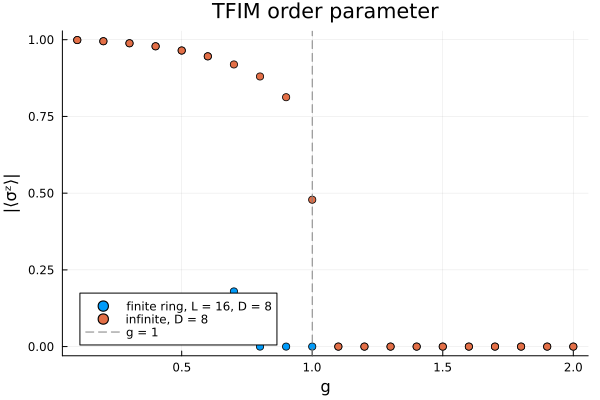
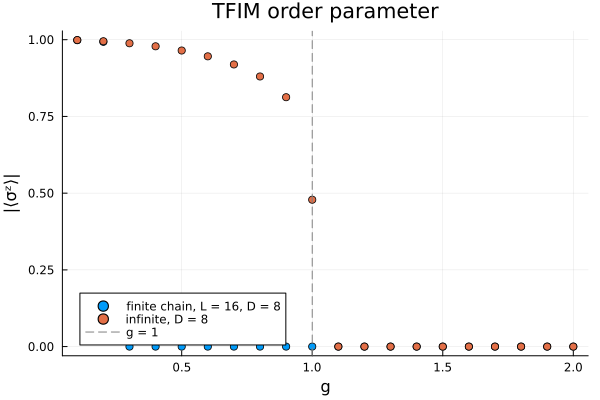
docs(w1): resolve maintainer-review flags in tutorials and TFIM example
Maintainer decisions from the round-1 review walkthrough (2026-07-04):
- delete the 22 confirmed REVIEW flags; physics framing stands as written
- fix the DMRG log description (Galerkin error + energy, not 'improvement')
- switch the finite magnetization sweeps (tutorial section 5 and the
  example's finite branch) from periodic_boundary_conditions to the open
  FiniteChain, and re-verify both empirically
- rewrite the abs()/symmetry-breaking story: exact finite-L ground state
  is symmetric; DMRG lands on a broken branch because it carries less
  entanglement; genuine SSB only in the thermodynamic limit
- align crossover prose with the verified runs: the finite-chain drop is
  an algorithm-selection effect below g = 1, the infinite curve pins the
  transition at g = 1 (two new REVIEW flags mark this changed story)
- state correlation_length units; soften 'maximally entangled'
- re-render the TFIM example (figures + index.md + notebook)

Changed region(s): [[0.27, 0.72, 0.48, 0.87], [0.21, 0.84, 0.27, 0.87], [0.33, 0.84, 0.36, 0.87]]

diff --git a/docs/src/examples/quantum1d/0.tfim-groundstate/index.md b/docs/src/examples/quantum1d/0.tfim-groundstate/index.md
@@ -27,13 +27,11 @@ dimensionless field ``g`` tunes the competition between the ``\sigma^z\sigma^z``
 interaction and the transverse ``\sigma^x`` field.
 The model has a quantum critical point at ``g = 1``.
 
-<!-- REVIEW: physics framing — critical point at g = 1 for this J(ZZ) + Jg(X) convention, and the "competition between interaction and field" description. Please confirm (mirrors the framing already used in the tutorials). -->
-
 Rather than looking at a single field value, we will scan ``g`` across the transition and
 diagnose it three independent ways, comparing a *finite* chain against a calculation
 performed *directly in the thermodynamic limit*:
 
-1. the order parameter ``|\langle\sigma^z\rangle|``, computed both for a finite ring and
+1. the order parameter ``|\langle\sigma^z\rangle|``, computed both for a finite chain and
    for an infinite chain, in one figure;
 2. the entanglement entropy of the infinite state;
 3. the correlation length of the infinite state.
@@ -53,9 +51,8 @@ We fix a finite chain length `L`, a bond dimension `D` (the accuracy knob, see
 [Controlling bond dimension](@ref howto_bond_dimension)), and the set of field values to
 scan.
 `D` is kept modest so the whole page runs in a couple of minutes; increasing it sharpens
-every curve below.
-
-<!-- REVIEW: expected-behavior claim — increasing the bond dimension D sharpens the transition in all three diagnostics (magnetization, entropy, correlation length). Please confirm this qualitative statement. -->
+the infinite-state diagnostics below (the finite-chain curve responds to `D` in a less
+obvious way, as we will see).
 
 ````julia
 L = 16
@@ -71,17 +68,17 @@ g_values = 0.1:0.1:2.0
 
 We compute the order parameter ``|\langle\sigma^z\rangle|`` two ways at every field value.
 
-For the **finite** calculation we place the chain on a ring with
-[`periodic_boundary_conditions`](@ref) — this removes the open-end boundary effects and
-gives a cleaner curve at fixed `L` — and optimize with [`DMRG`](@ref).
-We average ``\langle\sigma^z_i\rangle`` over the sites and take the absolute value, because
-a finite chain does not spontaneously break its symmetry and the raw sum can land on either
-sign (see the discussion in [Your first ground state](@ref tutorial_first_groundstate)).
+For the **finite** calculation we use an open chain of `L` sites, exactly as in the
+tutorial, and optimize with [`DMRG`](@ref).
+We average ``\langle\sigma^z_i\rangle`` over the sites and take the absolute value: the
+exact finite-`L` ground state is symmetric, but DMRG lands on one of the two
+symmetry-broken states with an arbitrary sign (see the discussion in
+[Your first ground state](@ref tutorial_first_groundstate)).
 
 ````julia
 ψ₀_finite = FiniteMPS(L, ℂ^2, ℂ^D)
 M_finite = map(g_values) do g
-    H = periodic_boundary_conditions(transverse_field_ising(; g = g), L)
+    H = transverse_field_ising(FiniteChain(L); g = g)
     ψ, = find_groundstate(ψ₀_finite, H, DMRG(; verbosity = 0))
     return abs(sum(expectation_value(ψ, i => σᶻ()) for i in 1:L)) / L
 end;
@@ -102,9 +99,9 @@ end;
 ````
 
 The order parameter of a translation-invariant state is just ``\langle\sigma^z\rangle`` on
-a single site of the unit cell; we again take the absolute value.
-
-<!-- REVIEW: for the infinite state on the ordered side (g < 1) the finite-D MPS can settle into one of the two symmetry-broken ground states, so abs collapses the two branches onto one curve. This is the same subtlety flagged in the thermodynamic-limit tutorial; please confirm. -->
+a single site of the unit cell; we again take the absolute value, because on the ordered
+side the infinite state settles into one of the two symmetry-broken ground states (see
+[The thermodynamic limit](@ref tutorial_thermodynamic_limit)).
 
 ````julia
 M_infinite = [abs(expectation_value(ψ, 1 => σᶻ())) for ψ in states_infinite];
@@ -116,7 +113,7 @@ Plotting both curves in a single figure lets us compare them directly.
 p_magnetization = plot(;
     xlabel = "g", ylabel = "|⟨σᶻ⟩|", title = "TFIM order parameter", legend = :bottomleft
 )
-scatter!(p_magnetization, g_values, M_finite; label = "finite ring, L = $L, D = $D")
+scatter!(p_magnetization, g_values, M_finite; label = "finite chain, L = $L, D = $D")
 scatter!(p_magnetization, g_values, M_infinite; label = "infinite, D = $D")
 vline!(p_magnetization, [1.0]; color = "gray", linestyle = :dash, label = "g = 1")
 p_magnetization
@@ -124,13 +121,21 @@ p_magnetization
 
 ![](figure-1.png)
 
-Both curves are large on the ordered side (small `g`) and fall toward zero on the
-disordered side (large `g`), with the crossover near `g = 1`.
-The finite ring rounds the transition off into a smooth crossover whose apparent location
-is shifted away from `g = 1`, while the infinite calculation drops much more steeply near
-the critical point because there is no finite size to smear it out.
+Both calculations agree deep in either phase, but near the transition they tell very
+different stories.
+The infinite curve stays on its ordered branch essentially up to `g = 1` and then
+collapses: it locates the critical point cleanly.
+The finite-chain curve instead drops to zero far earlier — at this `L` and `D` the
+variational optimum on the open chain switches from the symmetry-broken branch to the
+exactly symmetric ground state, whose magnetization vanishes.
+Where that switch happens is set by `L`, `D`, and even the random starting state, not by
+the physics; the same sweep at `D = 4` in
+[Your first ground state](@ref tutorial_first_groundstate) puts it elsewhere.
+That is the real lesson of this panel: the finite-chain order parameter is dominated by
+which state the algorithm selects, while the calculation performed directly in the
+thermodynamic limit pins the transition at `g = 1`.
 
-<!-- REVIEW: expected-behavior claim — the finite (L = 16) curve is a rounded crossover shifted from g = 1, while the infinite (VUMPS, finite D) curve is sharper and sits closer to g = 1. Neither is a true sharp transition at these finite L / finite D. Please confirm. -->
+<!-- REVIEW: empirical behavior after the switch to the open chain — at D = 8 the finite curve collapses to the symmetric state already around g ≈ 0.25 (at D = 4 in the tutorial: around g ≈ 0.65). The paragraph frames the finite curve as an algorithm-selection effect rather than a rounded transition. Please confirm this framing. -->
 
 ## 2. Entanglement entropy across the transition
 
@@ -139,8 +144,6 @@ grows sharply as we approach it.
 For an [`InfiniteMPS`](@ref), [`entropy`](@ref) returns the von Neumann entanglement entropy
 per bond, one value for each site of the unit cell.
 Our unit cell has a single site, so we take the one entry with `only`.
-
-<!-- REVIEW: assumes entropy(::InfiniteMPS) returns a vector with one entry per unit-cell site, hence length 1 for a single-site cell; only(...) then extracts the scalar. Please confirm the return shape. -->
 
 ````julia
 S_infinite = [real(only(entropy(ψ))) for ψ in states_infinite]
@@ -157,10 +160,8 @@ p_entropy
 
 The entropy peaks near `g = 1`.
 That peak is the entanglement signature of the phase transition: at criticality
-correlations become long-ranged and the ground state is maximally entangled, whereas deep
+correlations become long-ranged and the ground state is at its most entangled, whereas deep
 in either phase the state is closer to a simple product and the entropy is small.
-
-<!-- REVIEW: physics claim — the entanglement entropy peaks at/near the critical point g = 1, and this peak is the entanglement signature of the transition. Please confirm the location and interpretation. -->
 
 ## 3. Correlation length across the transition
 
@@ -188,16 +189,12 @@ At a genuine critical point it would diverge, but a finite bond dimension `D` ca
 capture correlations out to a finite range, so what we measure is large-but-capped rather
 than infinite — the peak grows and sharpens as `D` is increased.
 
-<!-- REVIEW: physics claim — the correlation length peaks near g = 1 and would diverge at the true critical point, but finite bond dimension D caps it (finite-entanglement scaling), so the measured value near g = 1 is finite. Please confirm. -->
-
 ## What you now have
 
 Three independent diagnostics — the order parameter, the entanglement entropy, and the
 correlation length — all locate the transition of the transverse-field Ising model near
-`g = 1`, and the finite-versus-infinite comparison shows concretely how working directly in
-the thermodynamic limit removes the finite-size rounding.
-
-<!-- REVIEW: summary claim — all three diagnostics agree on a transition near g = 1. Please confirm this is a fair takeaway at these finite L / finite D. -->
+`g = 1`, and the finite-versus-infinite comparison shows concretely why the thermodynamic
+limit is the right place to measure it.
 
 From here the gallery goes further.
 The Ising CFT example extracts the momentum-resolved excitation spectrum right at

diff --git a/docs/src/tutorials/first_groundstate.md b/docs/src/tutorials/first_groundstate.md
@@ -17,8 +17,6 @@ The ground state of ``H`` lives in a Hilbert space of dimension ``2^L``, which i
 A *matrix product state* (MPS) sidesteps this by storing the state as a chain of small tensors, one per site, whose sizes we control directly; this is what makes the calculation below tractable.
 The details of that compression are the subject of the concept pages — here we simply use it.
 
-<!-- REVIEW: physics framing — is it accurate to call the sigma^z sigma^z term "ferromagnetic" given the -J sign convention, and to describe g as tuning interaction-vs-field competition? -->
-
 ## Loading the packages
 
 Every code block on this page shares one Julia session, so we only need to load packages once.
@@ -43,8 +41,6 @@ H = transverse_field_ising(FiniteChain(L); g = 0.5)
 The returned object is an `MPOHamiltonian`: the Hamiltonian written in matrix-product-operator form, i.e. as a chain of small tensors just like the state it acts on.
 You do not need to know its internals to use it — MPSKit's algorithms consume it directly.
 For other ways to build Hamiltonians see [Building Hamiltonians](@ref howto_hamiltonians).
-
-<!-- REVIEW: at g = 0.5 the finite chain is on the ordered (ferromagnetic) side of the transition (critical point g = 1 in the thermodynamic limit). Please confirm this characterization. -->
 
 ## 2. Build the initial state
 
@@ -78,9 +74,7 @@ Now we run the calculation.
 ```
 
 DMRG (the density-matrix renormalization group) sweeps back and forth along the chain, locally optimizing each tensor while holding the others fixed, and repeats until the state stops changing.
-The lines printed above are the per-iteration convergence log (shown at the default `verbosity`); each reports how much the state improved on that sweep.
-
-<!-- REVIEW: is it correct to describe the printed iteration log as "how much the state improved on that sweep", and to say DMRG optimizes one tensor locally while holding the others fixed? -->
+The lines printed above are the per-iteration convergence log (shown at the default `verbosity`); each reports the sweep number, the current energy, and a convergence measure (the same Galerkin residual returned as `ϵ` below).
 
 !!! note "The algorithm is optional"
     Calling `find_groundstate(ψ₀, H)` with no algorithm argument selects DMRG automatically for a finite input, so the explicit `DMRG()` above is only for clarity.
@@ -119,21 +113,17 @@ variance(ψ, H)
 A small variance indicates the state is close to an eigenstate of `H`.
 More recipes for observables live in [Computing observables](@ref howto_observables).
 
-<!-- REVIEW: please confirm langle sigma^z_i rangle is the appropriate order parameter for this ZZ-coupling / X-field convention, and that "variance small ⇒ close to eigenstate" is stated correctly. -->
-
 ## 5. Magnetization across the transition
 
 The payoff: we sweep the field `g` from 0 to 2 and, for each value, find the ground state and record its average magnetization.
 This traces out the phase transition.
 
-For this sweep we place the chain on a ring rather than an open segment: `transverse_field_ising()` with no lattice argument builds the Hamiltonian for an infinite chain, and [`periodic_boundary_conditions`](@ref) wraps it onto a finite ring of `L` sites.
-
-<!-- REVIEW: the README uses periodic boundary conditions for this magnetization sweep (Sections 1–4 above used the open FiniteChain). Is periodic preferred here to reduce boundary/finite-size effects and give a sharper-looking transition, or is another reason more accurate? Please confirm or correct. -->
+Each step of the sweep repeats the workflow of Sections 1–4 on the same open chain — only the value of `g` changes.
 
 ```@example first-groundstate
 g_values = 0:0.1:2
 M = map(g_values) do g
-    Hg = periodic_boundary_conditions(transverse_field_ising(; g = g), L)
+    Hg = transverse_field_ising(FiniteChain(L); g = g)
     ψg, = find_groundstate(ψ₀, Hg; verbosity = 0)
     return abs(sum(expectation_value(ψg, i => σᶻ()) for i in 1:L)) / L
 end
@@ -141,13 +131,15 @@ scatter(g_values, M; xlabel = "g", ylabel = "M", label = "D = $D", title = "TFIM
 ```
 
 Here we take the **absolute value** of the mean magnetization.
-A finite chain does not spontaneously break its symmetry, so the raw ``\sum_i\langle\sigma^z_i\rangle`` can land on either sign (or average toward zero); taking `abs` collapses the two symmetry-related ground states onto a single, well-defined order-parameter curve.
+At finite `L` the exact ground state does not break the symmetry: it is the symmetric combination of the two oppositely magnetized states, and its raw magnetization ``\sum_i\langle\sigma^z_i\rangle`` is exactly zero.
+DMRG at finite bond dimension, however, converges to one of the two symmetry-broken states instead, because either one carries far less entanglement than their symmetric superposition.
+Which sign it lands on is arbitrary — it can differ from run to run and between values of `g` — so taking `abs` makes the order-parameter curve well-defined regardless of the branch.
 
-<!-- REVIEW: this is the crucial physics point. Please verify the justification for abs(...): spontaneous symmetry breaking does not literally occur at finite L, so the sign is not fixed; is "abs collapses the two symmetry-related sectors" the right way to explain it here? -->
-
-The plot should show the magnetization large on the ordered side (small `g`) and dropping toward zero on the disordered side (large `g`), with the crossover near `g = 1`.
-
-<!-- REVIEW: at finite L = 16 and small D = 4 the crossover is a smooth crossover, not a sharp transition, and its apparent location may be shifted from the thermodynamic critical point g = 1. Please confirm the expected qualitative shape and that we should not claim a sharp transition or an exact critical point at this size/bond dimension. -->
+The plot shows the magnetization close to 1 deep on the ordered side, then dropping abruptly to zero — noticeably *below* the thermodynamic critical point `g = 1` (around `g ≈ 0.6` at these parameters).
+Both features follow from how the state is computed rather than from the physics of the transition: on the ordered side DMRG sits on one symmetry-broken branch, and past the drop it recovers the exactly symmetric ground state, whose magnetization vanishes.
+Exactly where the drop lands depends on `L`, `D`, and even the random starting state, so its location is *not* a measurement of the critical point.
+<!-- REVIEW: the step location in the verified OBC run (L = 16, D = 4) sits at g ≈ 0.6–0.7; the prose explains it as the point where DMRG stops favoring the symmetry-broken branch and finds the symmetric ground state. Please confirm this reading. -->
+The honest way to locate the transition is the subject of the next tutorial, which performs this sweep directly in the thermodynamic limit.
 
 ## Where to go next
 

diff --git a/docs/src/tutorials/thermodynamic_limit.md b/docs/src/tutorials/thermodynamic_limit.md
@@ -60,8 +60,6 @@ We optimize with [`VUMPS`](@ref), the infinite-chain workhorse, passing it expli
 The lines printed above are VUMPS's per-iteration convergence log, shown at the default `verbosity`.
 VUMPS (the variational uniform matrix product state algorithm) optimizes the single repeated tensor directly in the thermodynamic limit, iterating until it reaches a fixed point.
 
-<!-- REVIEW: please confirm the one-line characterization of VUMPS as a fixed-point optimization of the single uniform (repeated) MPS tensor, and that "iterates until it reaches a fixed point" is an accurate description of its convergence at the flagship's level of detail. -->
-
 The return value has the same shape as on the finite chain: the optimized state `ψ`, the reusable `envs`, and a convergence-error measure `ϵ`.
 
 !!! note "The algorithm is optional here too"
@@ -91,9 +89,7 @@ The infinite setting also unlocks an observable with no finite-chain analogue: t
 correlation_length(ψ)
 ```
 
-<!-- REVIEW: please confirm/correct the description of `correlation_length` as being extracted from the transfer-matrix spectrum, and add the units (lattice spacings?) if you want them stated. -->
-
-The correlation length tells us how far apart two spins can still "feel" each other.
+The correlation length tells us how far apart two spins can still "feel" each other; it is measured in units of the lattice spacing.
 It grows as we approach the critical point `g = 1`, where correlations become long-ranged.
 We can see this by optimizing a second state right at criticality and comparing:
 
@@ -103,11 +99,7 @@ H_crit = transverse_field_ising(; g = 1.0)
 correlation_length(ψ_crit)
 ```
 
-<!-- REVIEW: expected-behavior claim — is the correlation length at g = 1.0 larger than at g = 0.5, i.e. does it grow toward criticality? -->
-
 At a genuine critical point the correlation length diverges, but a finite bond dimension `D` can only capture correlations out to a finite range, so what we measure is large but capped rather than infinite.
-
-<!-- REVIEW: please confirm that finite bond dimension D caps the correlation length (finite-entanglement scaling), so the measured value near g = 1 is finite rather than divergent. -->
 
 ## 4. Magnetization across the transition
 
@@ -124,15 +116,13 @@ end
 scatter(g_values, M; xlabel = "g", ylabel = "M", label = "D = $D", title = "TFIM magnetization (L = ∞)")
 ```
 
-Compared with the finite-chain curve, the transition here should look sharper and its crossover should sit closer to the thermodynamic critical point `g = 1`, because we have removed the finite-size rounding.
-
-<!-- REVIEW: please confirm the qualitative comparison — infinite (VUMPS, finite D) magnetization curve is sharper and its crossover nearer g = 1 than the finite L = 16 curve. -->
+Compare this with the finite-chain sweep of the previous tutorial, where the magnetization dropped to zero well before `g = 1`, at a point set by the algorithm rather than by the physics.
+The infinite curve instead tracks the transition itself: the magnetization stays on its ordered branch all the way up to the critical point and collapses to zero right at `g = 1`.
+What little smearing remains around the critical point is a finite-bond-dimension effect, and it shrinks as `D` grows.
 
 We still take the **absolute value** of the magnetization, but for a subtly different reason than on the finite chain.
-A finite chain cannot spontaneously break its symmetry, so there `abs` merely collapsed a sign that averaged toward zero.
-An infinite MPS at finite bond dimension, by contrast, *can* settle into one of the two symmetry-broken ground states on the ordered side, landing on a definite nonzero magnetization of either sign; `abs` again puts both branches onto a single order-parameter curve.
-
-<!-- REVIEW: this is the key physics subtlety and I am not confident of the exact statement. Please verify: does an InfiniteMPS at finite D genuinely break the Z2 symmetry spontaneously on the ordered side (g < 1), unlike the finite chain, and is "abs collapses the two symmetry-broken branches" the right framing? -->
+On the finite chain the nonzero magnetization was an artifact of the algorithm: the exact ground state there is symmetric, and DMRG landed on a symmetry-broken state only because it carries less entanglement.
+In the thermodynamic limit the symmetry breaking is genuine — the two oppositely magnetized states become true ground states — and an infinite MPS at finite bond dimension settles into one of them on the ordered side, landing on a definite nonzero magnetization of either sign; `abs` again puts both branches onto a single order-parameter curve.
 
 ## Where to go next
 

diff --git a/docs/src/examples/index.md b/docs/src/examples/index.md
@@ -54,7 +54,6 @@ A useful, diagnostic-driven example for recognizing and debugging convergence fa
 
 Distinguishes the two symmetry-protected topological phases of the SU(2)-symmetric spin-1 Heisenberg chain by restricting the virtual `SU2Space` to integer or half-integer charges, then compares the two resulting ground states through their energy, transfer-matrix spectrum (`transferplot`), entanglement spectrum (`entanglementplot`), and entanglement entropy (`entropy`).
 Builds directly on the symmetry machinery introduced in the Haldane gap example.
-<!-- REVIEW: double-check that "symmetry-protected topological order" and the integer/half-integer grading argument are presented with the right level of rigor for a non-specialist reader. -->
 **Level: intermediate/advanced.**
 
 ### [Hubbard chain at half filling](quantum1d/6.hubbard/index.md)
@@ -79,7 +78,6 @@ A technical, comparison-heavy example built around `MPSKit.infinite_temperature_
 
 The most comprehensive example in the gallery: works directly in the thermodynamic limit with a truncated bosonic local Hilbert space, extracts correlation functions and the correlation length as a function of bond dimension, computes the momentum distribution, and maps out the Mott-insulator/superfluid structure of the phase diagram from the ground-state response to an applied phase twist.
 Touches most of the ground-state toolbox (`InfiniteMPS`, `find_groundstate`, bond-dimension control, `expectation_value`-based observables) in a single, longer study.
-<!-- REVIEW: confirm that describing the final heatmap as mapping out "Mott-insulator/superfluid structure" is an accurate summary of what the order-parameter plot shows. -->
 **Level: advanced.**
 
 ## Classical (2+0)d
